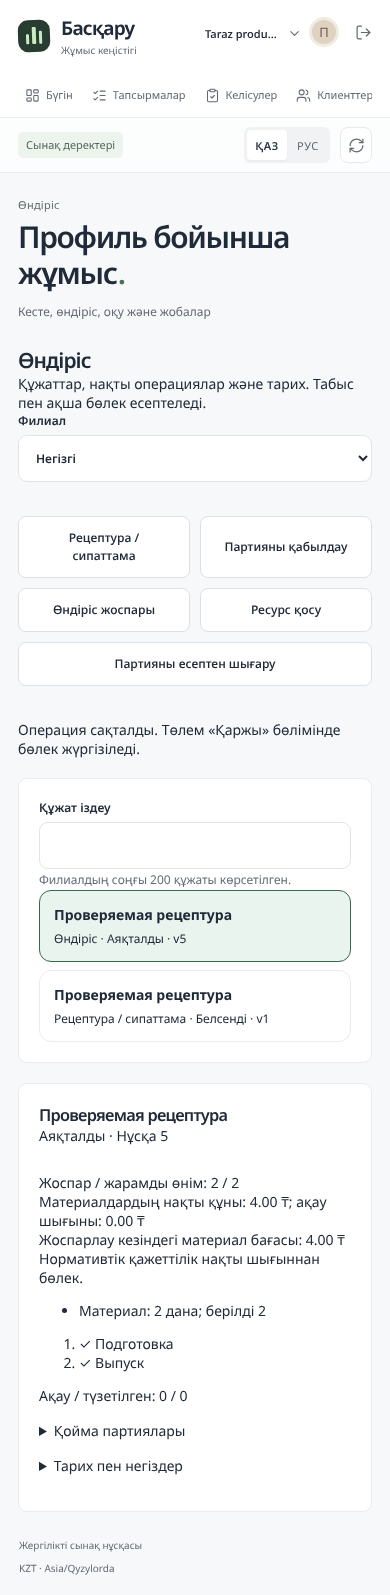
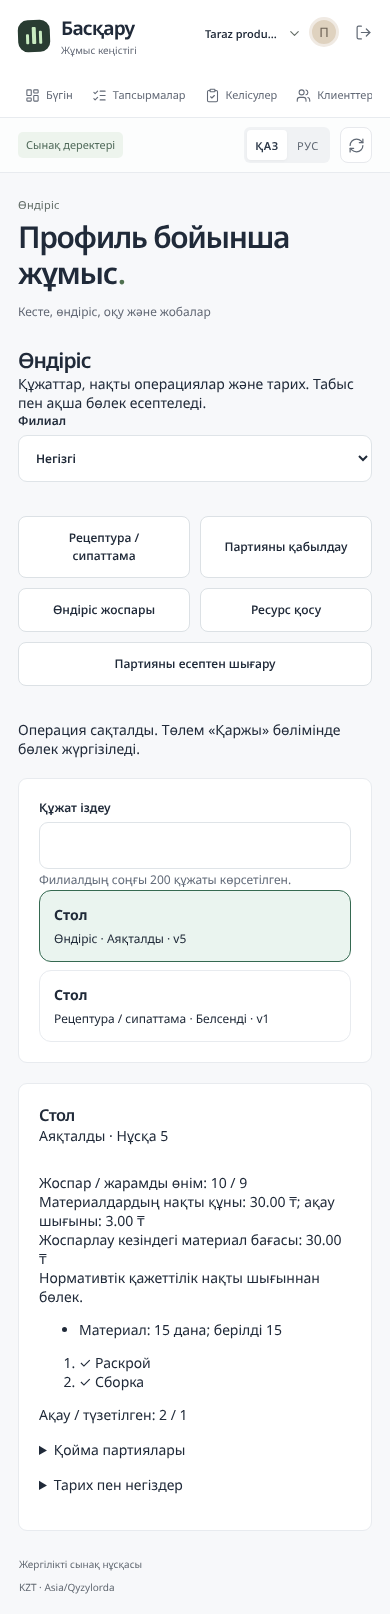
docs(T054): AC 01-18 acceptance matrix, release report; close AC 04/AC 13 test gaps
- docs/ACCEPTANCE.md: per AC implementation, evidence, result and remaining limits;
  non-functional targets of §21 with measured values.
- docs/RELEASE.md rewritten as the capability registry of the test release.
- tests/decisions.test.ts: shortage shows stock in another warehouse; over-budget purchase
  refused (AC 04 logic existed without a test).
- tests/e2e/industry.spec.ts: food sale + lot write-off, production defects/rework/scrap.

Claude-Session: https://claude.ai/code/session_01UgGrpsYDW7i4Yax65KPy8G

diff --git a/tests/e2e/industry.spec.ts b/tests/e2e/industry.spec.ts
@@ -827,3 +827,169 @@ test("projects: proposal, team, time, acceptance and separate payment order", as
     .toBe("completed");
   await f.capture();
 });
+const future = new Date(Date.now() + 5 * 86400000).toISOString().slice(0, 10);
+async function recipeAndPlan(
+  page: Page,
+  f: Awaited<ReturnType<typeof setup>>,
+  title: string,
+  stages: string,
+) {
+  await f.post(`${f.base}/stock-commands`, {
+    key: key(),
+    kind: "receipt",
+    warehouseId: f.warehouse,
+    itemId: f.material,
+    quantity: "30",
+    unit: "pc",
+    unitCost: "2",
+    note: "Сырьё",
+  });
+  await f.open();
+  let form = await f.click("Рецептура / спецификация");
+  await form.getByLabel("Название", { exact: true }).fill(title);
+  await form
+    .getByLabel("Готовый товар", { exact: true })
+    .selectOption(f.product);
+  await form.getByLabel("Выход в базовых единицах", { exact: true }).fill("10");
+  await form.getByLabel("Материал 1", { exact: true }).selectOption(f.material);
+  await form.getByLabel("Количество", { exact: true }).fill("15");
+  await form.getByLabel("Этапы, через запятую", { exact: true }).fill(stages);
+  await f.submit("Рецептура / спецификация");
+  const recipe = (await f.docs()).find((x) => x.kind === "recipe")!;
+  form = await f.click("План выпуска");
+  await form.getByLabel("Склад", { exact: true }).selectOption(f.warehouse);
+  await form
+    .getByLabel("Рецептура / спецификация", { exact: true })
+    .selectOption(recipe.id);
+  await form.getByLabel("План выпуска", { exact: true }).fill("10");
+  await f.submit("План выпуска");
+  const plan = (await f.docs()).find((x) => x.kind === "production")!;
+  await page
+    .locator(".industry-card")
+    .filter({ hasText: title })
+    .filter({ hasNotText: "Рецептура" })
+    .first()
+    .click();
+  await expect(page.getByText(/План \/ годный выпуск/)).toBeVisible();
+  // Material requirements come from the recipe version (15 per 10 units).
+  await f.click("Выдать материалы");
+  await f.submit("Выдать материалы");
+  return plan;
+}
+test("food: recipe, plan, material issue, stages, dated lot, sale and expiry write-off in RU/KK", async ({
+  page,
+}) => {
+  test.setTimeout(120_000);
+  const f = await setup(page, "food");
+  await recipeAndPlan(page, f, "Хлеб пшеничный", "Замес, Выпечка");
+  for (const stage of ["Замес", "Выпечка"]) {
+    const form = await f.click("Этап и брак");
+    await form
+      .getByLabel("Этап", { exact: true })
+      .selectOption({ label: stage });
+    await f.submit("Этап и брак");
+  }
+  let form = await f.click("Подтвердить выпуск");
+  await form.getByLabel("Годный выпуск", { exact: true }).fill("10");
+  await form.getByLabel("Безвозвратный брак", { exact: true }).fill("0");
+  await form.getByLabel("Код партии", { exact: true }).fill("BREAD-E2E");
+  await form.getByLabel("Годен до", { exact: true }).fill(future);
+  await f.submit("Подтвердить выпуск");
+  await expect(page.getByText(/10 \/ 10/)).toBeVisible();
+  // Sale of 3 from the dated lot (FEFO), through the ordinary order services.
+  const order = await f.post(`${f.base}/orders`, {
+    key: key(),
+    branchId: f.branch,
+    customerId: f.customer,
+    warehouseId: f.warehouse,
+    dueDate: future,
+    delivery: "pickup",
+    note: "Продажа хлеба",
+    taxMode: "excluded",
+    lines: [
+      {
+        itemId: f.product,
+        quantity: "3",
+        unit: "pc",
+        price: "100",
+        discount: "0",
+      },
+    ],
+  });
+  await f.post(`${f.base}/orders/${order.id}/commands`, {
+    key: key(),
+    version: 1,
+    kind: "confirm",
+    note: "Резерв",
+  });
+  const view = await f.get(`${f.base}/orders/${order.id}`);
+  await f.post(`${f.base}/orders/${order.id}/commands`, {
+    key: key(),
+    version: view.order.version,
+    kind: "fulfill",
+    lineId: view.lines[0].id,
+    quantity: "3",
+    note: "Выдача",
+  });
+  // Remaining lot is written off with an explicit waste document (not an ordinary issue).
+  await page
+    .getByRole("button", { name: "Обновить", exact: true })
+    .first()
+    .click();
+  form = await f.click("Списать партию");
+  await form.getByLabel("Склад", { exact: true }).selectOption(f.warehouse);
+  await form.getByLabel("Товар", { exact: true }).selectOption(f.product);
+  await form
+    .getByLabel("Количество в базовых единицах", { exact: true })
+    .fill("7");
+  const lot = await form
+    .getByLabel("Партия", { exact: true })
+    .locator("option", { hasText: "BREAD-E2E" })
+    .getAttribute("value");
+  await form.getByLabel("Партия", { exact: true }).selectOption(lot!);
+  await f.submit("Списать партию");
+  const balance = await f.get(
+    `${f.base}/inventory/balances?warehouseId=${f.warehouse}`,
+  );
+  const bread = balance.items.find(
+    (x: { item_id: string }) => x.item_id === f.product,
+  );
+  expect(Number(bread.quantity)).toBe(0);
+  await f.capture();
+});
+test("production: specification, issue, defects and rework, good output with irreversible scrap in RU/KK", async ({
+  page,
+}) => {
+  test.setTimeout(120_000);
+  const f = await setup(page, "production");
+  await recipeAndPlan(page, f, "Стол", "Раскрой, Сборка");
+  let form = await f.click("Этап и брак");
+  await form
+    .getByLabel("Этап", { exact: true })
+    .selectOption({ label: "Раскрой" });
+  await form.getByLabel("Выявлено брака, единиц", { exact: true }).fill("2");
+  await form
+    .getByLabel("Исправлено переделкой, единиц", { exact: true })
+    .fill("1");
+  await f.submit("Этап и брак");
+  form = await f.click("Этап и брак");
+  await form
+    .getByLabel("Этап", { exact: true })
+    .selectOption({ label: "Сборка" });
+  await f.submit("Этап и брак");
+  form = await f.click("Подтвердить выпуск");
+  await form.getByLabel("Годный выпуск", { exact: true }).fill("9");
+  await form.getByLabel("Безвозвратный брак", { exact: true }).fill("1");
+  await form.getByLabel("Код партии", { exact: true }).fill("TABLE-E2E");
+  await f.submit("Подтвердить выпуск");
+  await expect(page.getByText(/10 \/ 9/)).toBeVisible();
+  await expect(page.getByText(/2 \/ 1/)).toBeVisible();
+  const balance = await f.get(
+    `${f.base}/inventory/balances?warehouseId=${f.warehouse}`,
+  );
+  const table = balance.items.find(
+    (x: { item_id: string }) => x.item_id === f.product,
+  );
+  expect(Number(table.quantity)).toBe(9);
+  await f.capture();
+});

diff --git a/tests/decisions.test.ts b/tests/decisions.test.ts
@@ -440,3 +440,50 @@ it("T024: limits and delegation bound approvals; business refusal is recorded as
     ]),
   ).toEqual(before);
 });
+it("T054/AC 04: the shortage shows stock available in another warehouse, and a purchase over its budget is refused", async () => {
+  const second = (
+    await inv.createWarehouse(owner, org, {
+      branchId: branch,
+      name: `Second ${key().slice(0, 4)}`,
+    })
+  ).id;
+  const { sku, insight } = await lowStockItem("3");
+  // No situation change yet: the other warehouse is empty.
+  expect(insight.evidence.facts.other_warehouses_available).toBe("0");
+  await inv.execute(owner, org, {
+    key: key(),
+    kind: "receipt",
+    warehouseId: second,
+    itemId: sku,
+    quantity: "20",
+    unit: "pc",
+    unitCost: "10",
+    note: "Остаток на втором складе",
+  });
+  await ins.detect(org);
+  const again = insightList
+    .parse(
+      JSON.parse(
+        JSON.stringify(await ins.list(buyer, org, { rule: "low_stock" })),
+      ),
+    )
+    .items.find((i) => i.entity_id === sku)!;
+  expect(again.evidence.facts).toMatchObject({
+    available: "3",
+    other_warehouses_available: "20",
+  });
+  // Budget: the drafted purchase (132,00 KZT) cannot be revised to a budget below its amount.
+  const id = (await prop.fromInsight(buyer, org, again.id, { key: key() })).id;
+  const d = await detail(buyer, id);
+  await expect(
+    prop.revise(buyer, org, id, {
+      key: key(),
+      version: d.proposal.version,
+      params: {
+        ...(d.proposal.params as Record<string, unknown>),
+        budget: "100",
+      },
+      note: "Бюджет меньше суммы",
+    }),
+  ).rejects.toMatchObject({ code: "BUDGET_EXCEEDED" });
+});

diff --git a/docs/ACCEPTANCE.md b/docs/ACCEPTANCE.md
@@ -1,0 +1,43 @@
+# Сводная приёмка AC 01–18 (T054)
+
+Дата: 15.10.2026. Ветка `codex/t051-t058`. Источник критериев: SPECIFICATION.md §22. Стенд: облачный Linux-контейнер (4 vCPU Intel Xeon 2.1 ГГц, 15 ГБ ОЗУ), Node.js 22.22, PostgreSQL 16 (изолированный кластер), PGlite для локального предпросмотра, Chromium (Playwright), только синтетические данные.
+
+Обозначения результата: **PASS (тест)** — критерий подтверждён автоматическими проверками на контролируемых синтетических данных; **ЧАСТИЧНО** — подтверждена часть, остальное требует живого доступа; **НЕ ПРОВЕРЕНО ВЖИВУЮ** — реализация есть, живая проверка не выполнялась. Ни одна строка не означает live_verified или общую приёмку продукта заказчиком: это технический отчёт исполнителя.
+
+| AC | Критерий (кратко) | Реализация | Доказательство проверки | Результат | Живая проверка / оставшиеся ограничения |
+| --- | --- | --- | --- | --- | --- |
+| 01 | Собственник создаёт организацию, профиль, приглашает; сотрудник видит только свою область | Platform, memberships, branch scope в каждом сервисе | tests/foundation.test.ts; e2e foundation.spec «owner onboarding, branch-scoped invitation, isolation, revocation, mobile and KK/RU»; T052 ui-acceptance (18 разделов) | PASS (тест) | Почта приглашений не отправляется (ручная ссылка); MFA/подтверждение email/восстановление аккаунта не реализованы |
+| 02 | Импорт таблицы с ошибками: предпросмотр, частичный результат, повтор без дублей, источник и дата | ImportService, ImportWorker, outbox | tests/imports.test.ts (19), tests/restart.test.ts; e2e imports.spec «customer CSV preview, durable import, replay…» | PASS (тест) | Импорт реализован для клиентов; каталога/финансов — нет (ранний остаток T009/T015) |
+| 03 | Продажа до исполнения, частичной оплаты и возврата с согласованными остатками и суммами | CommerceService (заказ/резерв/выдача/деньги/возврат — отдельные события) | tests/commerce.test.ts (16); e2e commerce.spec «orders, partial fulfillment, payment, return, refund…»; нагрузка T051: инварианты склада/денег после 42 825 запросов | PASS (тест) | Налоги не рассчитываются (tax_mode excluded) |
+| 04 | Риск нехватки, объяснение данных, черновик закупки, другой склад и бюджет | InsightService (low_stock, other_warehouses_available, transfer_or_purchase), ProposalService (бюджет), PurchasingService.budget | tests/decisions.test.ts «low stock → evidence → draft purchase → approval → … verified effect» и «AC 04: …another warehouse… budget is refused»; tests/purchasing.test.ts «…read-only budget alternatives» | PASS (тест) | Прогноз спроса по сезонности не реализован (T023 остаток) |
+| 05 | Сравнение прайсов с упаковкой и доставкой; приёмка сверяется с заказом, расхождение сохраняется | PurchasingService.compare, сверка документа, T020 решения по строкам | tests/purchasing.test.ts «compares whole packs, minimums, delivery…», «requires explicit discrepancy acknowledgment…», T020-тесты; e2e purchasing.spec | PASS (тест) | Массовый импорт прайсов не реализован; OCR живых сканов поставщиков — T056 |
+| 06 | Финансовые показатели раскрываются до операций; выручка ≠ деньги; сценарий не меняет факт | CommerceService.summary/ledger/calendar, OutcomeService (T048) | tests/commerce.test.ts; tests/extended-industry.test.ts «T048 separates the immutable forecast…»; e2e commerce.spec, industry.spec «outcomes…» | PASS (тест) | Периодная отчётность по датам денежных событий и налоги — ранний остаток T016 |
+| 07 | Ситуация → задача и разрешённый документ → исполнение → проверка → связанный результат | Insights → Proposals → TaskService → verified effect | tests/decisions.test.ts (сквозной этап 3); tests/tasks.test.ts; e2e execution.spec «situation → draft purchase → second-person approval → execution…» | PASS (тест) | Внешние уведомления (почта/мессенджер) не подключены |
+| 08 | Камера или запись проходит реальную обработку, зоны и события, потеря потока явная; validated детекторы имеют отчёт | scripts/video-processor.ts (ffmpeg), VideoService, протокол оценки | tests/video.test.ts (реальное декодирование ffmpeg отрисованных роликов, потеря сигнала); docs/evidence/video-eval-2026-10-15.json; `npm run eval:video` | ЧАСТИЧНО: запись — PASS (тест); детекторы experimental, ни один не заявлен validated | Камера предприятия, RTSP/ONVIF конкретной модели и разрешённые реальные записи — T057 (нужен доступ) |
+| 09 | KK/RU запросы используют разрешённые данные; числа совпадают с расчётами; подтверждение где задано | AssistantService, инструменты с правами пользователя, проверка чисел | tests/assistant.test.ts (8, сценарный тестовый провайдер, не модель); набор eval 32 RU/KK; `npm run eval:assistant` | ЧАСТИЧНО: обвязка PASS (тест); качество ответов модели не измерено | Нет ключа AI: живой eval и prompt-injection на модели — T056 |
+| 10 | Голос: остановка, прерывание, восстановление; живой тест отдельно от offline eval | UI записи с индикатором/отменой/таймаутом, API транскрипции | tests/assistant.test.ts «T028: voice needs explicit enablement…» | НЕ ПРОВЕРЕНО ВЖИВУЮ (провайдер речи not_configured) | Выбор провайдера речи, бюджет и реальные устройства — T056 |
+| 11 | Автоматизация: тестовый прогон, включение после проверки, повтор события и сбой безопасны | AutomationService, ExecutionWorker (outbox, lease/fencing) | tests/automations.test.ts (4: повторная доставка, цикл, перезапуск с fencing, отзыв прав); tests/failure-recovery.test.ts | PASS (тест) | Внешние действия автоматизаций not_configured |
+| 12 | МойСклад и Битрикс24 — работающие контрактные адаптеры и паспорта; остальные — задачи, не ложные статусы | registry.ts, адаптеры T030–T034, T040 | tests/moysklad-contract.test.ts (8), bitrix24-contract (5), onec (4), telegram (6), kaspi (3), kaspi-trade (3), bank (4); e2e execution.spec «паспорта подключений», пять статусов «Не подключено» | PASS (тест, контракт) | Ни одного живого аккаунта: sandbox/live_verified нет — T055 |
+| 13 | Каждый отраслевой профиль проходит свой сквозной тест §16 | IndustryService (T041–T047), Kaspi (T040), торговля (T014) | Серверные: tests/industry.test.ts T041–T045, extended-industry T046–T047, kaspi-trade T040. Браузерные: industry.spec — food/production (два сценария каждый, в т. ч. продажа и списание партии, брак/переделка), services, education, projects, construction, clinic; commerce.spec (торговля) | PASS (тест) | Реальные процессы предприятий не проверялись (T058); маркетплейсы кроме Kaspi не подключены |
+| 14 | Кампания: экономика, материал, разрешение публикации, сопоставимый результат без гарантии роста | MarketingService (маржа, согласование версии, PDF, журнал без «опубликовано», анализ с контрольным периодом) | tests/marketing.test.ts (6); e2e execution.spec (страница «Продвижение», axe) | PASS (тест) | Генератор изображений, e-mail/SMS, рекламные кабинеты not_configured; живая отправка Telegram не выполнялась |
+| 15 | Другая организация, роль, фон, экспорт, AI и realtime не раскрывают чужие данные | Серверные права и scope во всех сервисах; курсор изменений по области; экспорт по organization_id | tests/foundation.test.ts; tests/live.test.ts (курсор по филиалу/организации); tests/export.test.ts; tests/assistant.test.ts (инструменты с правами пользователя); tests/extended-industry.test.ts T049; tests/imports.test.ts (worker перепроверяет инициатора); docs/SECURITY.md | PASS (тест) | Независимый пентест production не выполнялся |
+| 16 | Без внешнего AI, камеры или интеграции локальные функции работают; статус не вводит в заблуждение | not_configured/degraded статусы, «Сегодня» с источниками | tests/assistant.test.ts (not_configured); e2e execution.spec (помощник not_configured, подключения); tests/video.test.ts (signal_lost); адаптеры: 401/429/5xx → degraded | PASS (тест) | Отказ реального провайдера/камеры не воспроизводился |
+| 17 | База восстанавливается из резервной копии на тестовом стенде; секретов нет в репозитории и клиентском пакете | db:backup/db:restore, учения test:restore, check:secrets | docs/evidence/restore-drill-2026-10-15.json (копия под записью, удаление исходной базы, восстановление зашифрованной копии, сверка 111 таблиц, вход и операция); `npm run check:secrets` 0 находок (в т. ч. сборка с заданными значениями секретов) | PASS (тест) | Production-хостинг, расписание и хранение копий вне сервера — решение заказчика |
+| 18 | lint, build, test проходят; команды video/AI/worker описаны, результаты сохранены | package.json, RUNBOOK, TESTING | Итог финального прогона — раздел ниже и docs/TESTING.md | см. ниже | Удалённый GitHub Actions не подтверждён (0 запусков в репозитории) |
+
+## Нефункциональные цели §21 (T051–T053)
+
+| Цель | Измерение | Результат |
+| --- | --- | --- |
+| Чтения API p95 ≤ 1 с при 20 пользователях | `npm run test:load`, набор 1000 SKU / 12 546 операций / 90 дней, 120 с | p95 79 мс, p99 117 мс — выполнено |
+| Внутренние команды p95 ≤ 2 с | то же | p95 183 мс, p99 235 мс — выполнено |
+| Обновление открытого экрана другого пользователя ≤ 3 с | e2e live.spec | ~0,85–0,9 с — выполнено |
+| Тяжёлая обработка не блокирует интерфейс | `npm run measure:files` | OCR в дочернем процессе, задержка цикла событий ≤ 50 мс; импорт — фоновое задание со статусом; загрузка накладной ждёт OCR в своей форме (~1,4 с скан) |
+| Нет горизонтального переполнения, таблицы прокручиваются отдельно | e2e ui-acceptance (180 проверок) | выполнено |
+| Нет необработанных ошибок браузера | e2e (все спецификации собирают pageerror) | выполнено |
+| Нулевая доступность чужих данных | AC 15 | выполнено на тестах |
+| Повтор задания/перезапуск worker не удваивает деньги, склад, внешнее действие | tests/automations, failure-recovery, restart, адаптеры | выполнено |
+
+## Внешние зависимости, не закрываемые в этой среде
+
+Живые аккаунты (МойСклад, Битрикс24, 1С, Telegram, Kaspi, банк), ОФД/касса, AI-провайдер и бюджет, распознавание речи, генератор изображений, камера предприятия и разрешённые записи, пилот на реальном процессе, хостинг/регион хранения/юридическая проверка ПДн. Протоколы живой приёмки — docs/LIVE_ACCEPTANCE.md (T055–T058).

diff --git a/docs/RELEASE.md b/docs/RELEASE.md
@@ -1,39 +1,36 @@
-# Локальный срез 0.1.0
+# Отчёт о тестовом релизе (T054)
 
-Реализованы основные локальные процессы основания и начат этап 2. Полный релиз платформы по ТЗ не готов.
+Дата: 15.10.2026. Ветка `codex/t051-t058` (поверх цепочки PR #1 → PR #2). Это тестовый релиз на синтетических данных, **не production-развёртывание** и не общая приёмка заказчиком. Матрица AC 01–18 — docs/ACCEPTANCE.md, результаты команд — docs/TESTING.md, инструкции — docs/RUNBOOK.md.
 
-| Возможность | Реализация | Проверка подключения |
-| --- | --- | --- |
-| Аккаунт и cookie-сессии | implemented, локальная проверка | local synthetic; MFA/email/recovery впереди |
-| Организации и филиалы | implemented, серверные тесты | local synthetic |
-| Роли и ограничения филиалов | implemented, серверные тесты | local synthetic; поздние поверхности впереди |
-| Приглашения и отзыв доступа | implemented, серверные тесты | ручные локальные ссылки; почта not_configured |
-| Аудит | implemented для текущих мутаций | local synthetic |
-| KK/RU и адаптивный UI/PWA | implemented; manifest/offline/cache verified_test | нативная установка/обновление Android/iOS не проверены |
-| Импорт клиентов CSV/TSV | verified_test: preview, partial, replay, источник | local synthetic; другие сущности расширяются позднее |
-| Реестр и правка клиентов | verified_test: branch scope, пагинация, версии | local synthetic; полноценная CRM впереди |
-| Очередь/outbox/worker | verified_test локально, перезапуск отдельным процессом, PostgreSQL с двумя пулами | нагрузка нескольких OS-workers не проверена |
-| Decimal и новые API-контракты | verified_test для imports/customers/inventory/commerce | прежние API ещё без полного OpenAPI |
-| Каталог и единицы | verified_test: ручные формы, цены, версии, преобразования | импорт каталога и партийный режим впереди |
-| Складской журнал | verified_test: приёмка/выдача, резерв, путь, возврат, инвентаризация | PostgreSQL: конкурентный резерв/повтор проверены; связь с заказами проверена |
-| Закупки: сверка, решения по строкам, корректировка долга (T020) | verified_test локально + PostgreSQL | local synthetic |
-| Задачи, шаблоны, эскалация (T021) | verified_test локально + e2e | уведомления только внутри приложения |
-| База знаний (T022) | verified_test локально + e2e | local synthetic |
-| Ситуации, «Сегодня», предложения и согласования (T023–T024) | verified_test: сквозной сценарий до проверенного эффекта | local synthetic |
-| Автоматизации (T025) | verified_test: повтор, цикл, перезапуск, отзыв прав | внешние действия not_configured |
-| AI-помощник (T026–T027) | implemented; обвязка verified_test | провайдер not_configured; живой eval не выполнен |
-| Голос (T028) | implemented UI и контракт | распознавание речи not_configured; живое устройство не проверено |
-| Реестр интеграций, МойСклад (T029–T030) | implemented; contract verified_test | not_configured; sandbox/live не проверены |
-| Битрикс24, 1С, кассы, Kaspi | planned | not_configured |
-| Заказы и исполнение | verified_test: частичная выдача, резерв, отмена, связанный возврат | local synthetic; обращения/предложения впереди |
-| Ручные финансы | verified_test: счета, деньги, оплаты, возвраты, обязательства | импорт/банки и закупочные документы впереди |
-| Финансовая сводка/календарь | verified_test: раздельные показатели, сценарий без записи | периодная аналитика, налоговая настройка/полнота расходов впереди |
-| Видео, отрасли | planned | not_configured |
+## Реестр возможностей
 
-Показатели экрана «Сегодня» получены из API организации, состава участников, филиалов и аудита. Финансовых графиков с выдуманными значениями нет. Материалы документов и все будущие требования остаются в TASKS.md / TRACEABILITY.md.
+Статусы по SPECIFICATION §3: реализация (implemented / verified_test) отдельно от подключения (not_configured / configured / sandbox_verified / live_verified).
 
-Ограничения: PGlite в одном локальном процессе, синтетические данные, нет подтверждения email/MFA/recovery, общей приёмки, нагрузки или подтверждённого восстановления из backup. PostgreSQL проверен на изолированном локальном сервере 18.2. Живые интеграции и размещение не выполнялись.
+| Модуль | Задачи | Реализация | Подключение / живая проверка |
+| --- | --- | --- | --- |
+| Аккаунты, организации, филиалы, роли, приглашения, аудит | T001–T007 | verified_test | локально; почта, MFA, восстановление аккаунта — нет |
+| Очередь, outbox, worker, импорт клиентов | T008–T009 | verified_test (PGlite + PostgreSQL, перезапуск процессов) | — |
+| Каталог, склад, партии, резервы, перемещения, инвентаризация | T010–T012, T041 | verified_test | — |
+| CRM: клиенты, обращения, предложения, PDF | T013 | verified_test API; полноценный CRM UI — нет | — |
+| Заказы, исполнение, деньги, обязательства, отчёты, календарь | T014–T016 | verified_test | налоги и периодная отчётность — нет |
+| Закупки, сравнение, бюджет, OCR накладных, сверка | T017–T020 | verified_test | живые сканы поставщиков — T056 |
+| Задачи, знания, ситуации, «Сегодня», согласования, автоматизации | T021–T025 | verified_test | внешние уведомления not_configured |
+| AI-помощник, инструменты, голос | T026–T028 | implemented; обвязка verified_test | AI и речь not_configured (T056) |
+| Реестр интеграций, МойСклад, Битрикс24, 1С, банк, Telegram, Kaspi | T029–T034, T040 | verified_test (контрактные стенды) | все not_configured; live_verified нет (T055) |
+| Видео: обработчик, зоны, детекторы, оценка | T035–T038 | verified_test на записях; детекторы experimental | камера предприятия — T057 |
+| Продвижение | T039 | verified_test | генератор изображений, e-mail/SMS, реклама not_configured |
+| Отраслевые профили (общепит, услуги, обучение, проекты, производство, строительство, клиника) | T041–T047 | verified_test (серверные и браузерные сквозные) | реальные процессы — T058 |
+| Результаты и факты | T048 | verified_test | — |
+| Безопасность и отказы | T049–T050 | verified_test | независимый пентест — нет |
+| Нагрузка и обновление экранов | T051 | verified_test (замер на стенде) | production-нагрузка — нет |
+| Мобильная версия, KK/RU, доступность | T052 | verified_test (Chromium) | реальные устройства и носитель языка — нет |
+| Бэкапы, восстановление, миграции, обезличивание, сроки хранения, экспорт, health | T053 | verified_test (учения восстановления) | хостинг/регион/юридическая проверка ПДн — нет |
+| Живые подключения, AI/OCR/голос, камера, пилот | T055–T058 | подготовлены код, проверки и протоколы | не выполнялись: нужен доступ заказчика |
 
-Проверки среза: 69 unit/integration/process + 10 PostgreSQL + 6 e2e, lint/typecheck/build, npm audit без известных уязвимостей. Подробные границы подтверждения в TESTING.md. Локальные web, worker и временный PostgreSQL при передаче остановлены.
+## Миграции
 
-Срез 14.10.2026 (T020–T030): 120 unit/integration + 13 PostgreSQL 16 + 8 e2e, lint/typecheck/build, audit 0. Подробности — TESTING.md.
+1–24 (24 — обезличивание, `privacy_requests`). Выпущенные 1–23 не изменялись. Следующая — 25. Порядок обновления: `db:backup` → `db:migrate -- --plan` → `db:migrate` → `/api/health`.
+
+## Известные ограничения
+
+Перечислены в docs/TASKS.md по задачам и в «Внешних зависимостях» docs/ACCEPTANCE.md. Критических открытых ошибок, известной потери данных или обхода прав на тестовом стенде нет; это утверждение относится только к проверенным путям.

diff --git a/docs/TASKS.md b/docs/TASKS.md
@@ -398,10 +398,9 @@
 ### T054. Сводная приёмка AC 01–18
 
 - [ ] Принято целиком. Зависимости: T001–T053.
-- Реализация: planned.
+- Реализация: implemented (матрица и отчёт о релизе); verified_test по каждому AC на синтетическом стенде, где это возможно без внешнего доступа.
 - Приёмка: Доказательства общей приёмки из этапа 8 плана; критические ошибки блокируют закрытие.
-- Доказательства / остаток: Не реализовано; тест ещё не создан.
-
+- Доказательства / остаток: docs/ACCEPTANCE.md — по каждому AC реализация, доказательство (конкретные тесты/отчёты), результат и ограничения; docs/RELEASE.md — реестр implemented/verified_test/подключения. PASS (тест): AC 01–07, 11–17; AC 08 частично (обработка записей подтверждена, детекторы experimental, камера предприятия — T057); AC 09 частично (обвязка, без живой модели — T056); AC 10 не проверен вживую (речь not_configured — T056); AC 18 — итог финального прогона в TESTING. Закрыты пробелы для приёмки: тест AC 04 (другой склад + бюджет — логика была, теста не было), браузерные сценарии общепита (продажа и списание партии) и производства (брак/переделка/безвозвратный брак). Остаток: общая приёмка заказчиком невозможна без живых доступов T055–T058; ранние остатки (CRM UI, налоги, импорт каталога/финансов, MFA) перечислены в задачах T003/T009/T013/T015/T016.
 
 ## Этап 9
 
